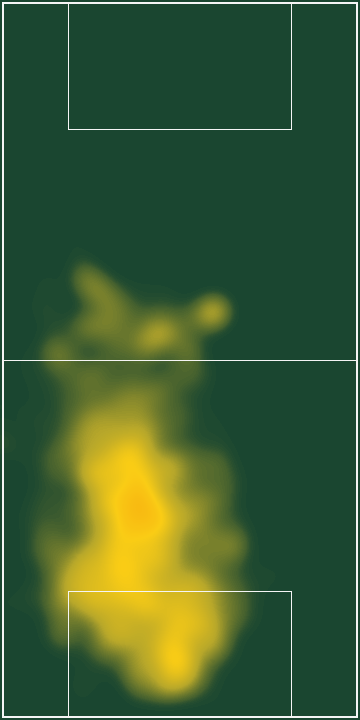
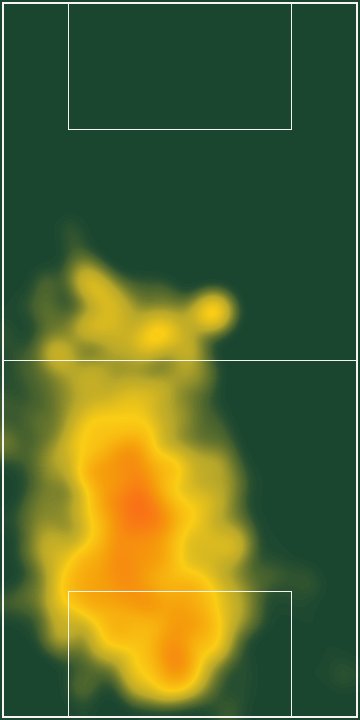
s

diff --git a/backend/app/services/stabilization.py b/backend/app/services/stabilization.py
@@ -2451,8 +2451,8 @@ HEATMAP_DENSITY_BASELINE_PERCENTILE = 80.0
 # hotspots to red, extreme hotspots saturate to deep red without globally
 # crushing ordinary movement (a single linear reference cannot span the
 # ~60x corridor-to-hotspot dynamic range).
-HEATMAP_DENSITY_SATURATION_RATIO = 30.0
-HEATMAP_DENSITY_GAMMA = 1.4
+HEATMAP_DENSITY_SATURATION_RATIO = 10.0
+HEATMAP_DENSITY_GAMMA = 1.1
 HEATMAP_DENSITY_EPSILON = 1e-6
 # Sigma for float Gaussian smoothing, chosen to preserve the visual footprint
 # of the previous PIL ImageFilter.GaussianBlur(radius=12) step (Pillow radius
